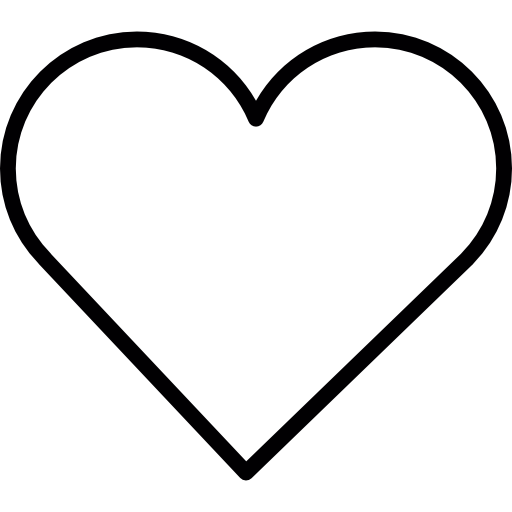
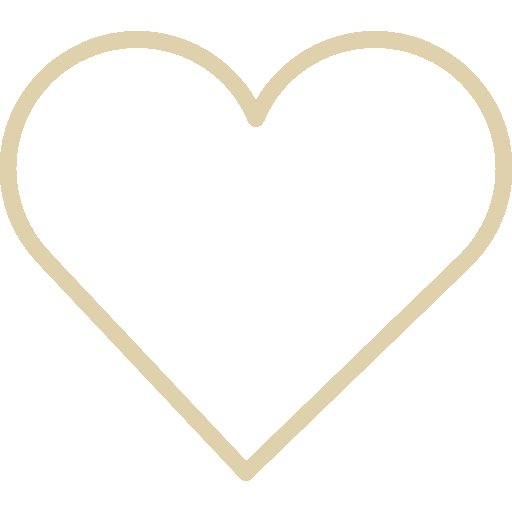
fin_favoris et css "plus joli"

Changed region(s): [[0.0, 0.0625, 1.0, 0.9375]]

diff --git a/js/favoris.js b/js/favoris.js
@@ -1,20 +1,35 @@
-document.addEventListener("DOMContentLoaded", () => {
-    const favorisContainer = document.querySelector(".favoris-container"); 
-    let favorites = JSON.parse(localStorage.getItem("favorites")) || [];
+// Attendre que le DOM soit chargé avant d'exécuter le script
 
+document.addEventListener("DOMContentLoaded", () => {
+    
+    // Sélection des conteneurs dans le DOM
+    const sectionContainer = document.querySelector(".section_container_favoris");
+    const favorisContainer = document.querySelector(".favoris-container"); 
+    
+    // Récupération des favoris stockés dans le localStorage
+    let favorites = JSON.parse(localStorage.getItem("favorites")) || [];
+    
+    // Vérification si des favoris existent, sinon afficher un message
     if (favorites.length === 0) {
         favorisContainer.innerHTML = "<p>Aucun favori pour le moment.</p>";
         return;
     }
 
+    // AFFICHAGE DES FAVORIS 
+    
     favorites.forEach(item => {
         const div = document.createElement("div");
         div.classList.add("favori-item");
+        
+        const div_img_txt = document.createElement("div");
+        div_img_txt.classList.add("div_img_txt");
 
+        // Création de l'image de l'élément
         const img = document.createElement("img");
         img.src = item.image;
         img.alt = item.name;
 
+        // Création du bouton pour supprimer l'élément des favoris
         const aHeart = document.createElement("a"); 
         aHeart.href = "#";
         const img_coeur = document.createElement("img");
@@ -22,13 +37,81 @@ document.addEventListener("DOMContentLoaded", () => {
         img_coeur.src = "images/heart.png";
         aHeart.appendChild(img_coeur);
 
+        // Création du nom de l'élément
         const name = document.createElement("h3");
         name.textContent = item.name;
 
-        div.appendChild(img);
-        div.appendChild(name);
+        div_img_txt.appendChild(img);
+        div_img_txt.appendChild(name);
+        div.appendChild(div_img_txt);
         div.appendChild(aHeart);
         favorisContainer.appendChild(div);
+
+        // AFFICHAGE D'UN ÉLÉMENT AU CLIC
+
+        div_img_txt.addEventListener("click", function() {
+            sectionContainer.innerHTML = "";
+            const element_div = document.createElement("div");
+            element_div.classList.add("element_div");
+
+            const div_a = document.createElement("div");
+            div_a.classList.add("div_a");
+
+            // Bouton favoris dans la page de détail
+            const a_favoris = document.createElement("a");
+            a_favoris.href = "#";
+            const img_favoris = document.createElement("img");
+            img_favoris.src = "images/heart.png";
+            img_favoris.alt = "coeur";
+            a_favoris.appendChild(img_favoris);
+            a_favoris.classList.add("a_favoris");
+
+            a_favoris.addEventListener("click", function (event) {
+                event.preventDefault();
+                enelever_favoris(event);
+            });
+
+            // Bouton retour
+            const a_return = document.createElement("a");
+            a_return.classList.add("a_return");
+            a_return.href = `/${item.category}`;
+            a_return.addEventListener("click", (event) => {
+                event.preventDefault();
+                history.pushState({ category: item.category }, "", `/${item.category}`);
+                loadCategory(categories.find((c) => c.name === item.category));
+            });
+
+            const img_in_a = document.createElement("img");
+            img_in_a.src = "images/4225636.png";
+            img_in_a.alt = "croix";
+            a_return.appendChild(img_in_a);
+
+            div_a.appendChild(a_favoris);
+            div_a.appendChild(a_return);
+
+            // Détails de l'élément
+            const elementImg = document.createElement("img");
+            elementImg.src = item.image;
+            elementImg.alt = item.name;
+            const elementName = document.createElement("h2");
+            elementName.textContent = item.name;
+            const elementDescription = document.createElement("p");
+            elementDescription.textContent = "Description : " + (item.description || "");
+            const elementLocation = document.createElement("p");
+            elementLocation.textContent = "Common(s) location(s) : " + (item.common_locations || "");
+            const elementDrops = document.createElement("p");
+            elementDrops.textContent = "Drops : " + (item.drops || "");
+
+            element_div.appendChild(div_a);
+            element_div.appendChild(elementName);
+            element_div.appendChild(elementImg);
+            element_div.appendChild(elementDescription);
+            element_div.appendChild(elementLocation);
+            element_div.appendChild(elementDrops);
+            sectionContainer.appendChild(element_div);
+        });
+
+        // GESTION DE LA SUPPRESSION D'UN FAVORI
 
         aHeart.addEventListener("click", function(event) {
             event.preventDefault(); 
@@ -38,5 +121,14 @@ document.addEventListener("DOMContentLoaded", () => {
             div.remove(); 
             location.reload();
         });
+
+        // Fonction pour supprimer un favori et recharger la page
+        const enelever_favoris = (event) => {
+            event.preventDefault();
+            favorites = favorites.filter(fav => fav.name !== item.name);
+            localStorage.setItem("favorites", JSON.stringify(favorites));
+            alert("L'élément a été retiré de vos favoris");
+            location.reload();
+        }
     });
 });

diff --git a/main.css b/main.css
@@ -22,13 +22,14 @@ header {
     align-items: center;
     padding: 10px 20px;
     border-bottom: 1px solid #ddd;
+    background-image: url('images/1258416.png');
 }
 
 .logo {
     display: flex;
     align-items: center;
     text-decoration: none;
-    color: black;
+    color:  rgb(224, 209, 173);
 }
 
 .logo img {
@@ -67,10 +68,10 @@ header {
     display: flex;
     align-items: center;
     justify-content: center;
-    border: 1px solid #ddd;
+    border: 0.5px solid grey;
     cursor: pointer;
     text-decoration: none;
-    color: black;
+    color:  rgb(224, 209, 173);
     width: 8em;
     padding: 4px;
     border-radius: 0 3px 3px 0;
@@ -84,6 +85,18 @@ header {
     margin-left: 5px;
 }
 
+.wallpaper_image {
+    position: fixed;
+    top: 0;
+    left: 0;
+    width: 100%;
+    height: 100%; 
+    z-index: -1;
+    background-size: cover;
+    background-position: center; 
+    filter: brightness(35%);
+}
+
 
 main {
     padding: 20px;
@@ -91,6 +104,7 @@ main {
     gap: 130px;
     padding-bottom: 70px;
     justify-content: center;
+    color:  rgb(224, 209, 173);
 }
 
 
@@ -101,11 +115,10 @@ main {
     margin: 0;
     padding: 0;
     gap: 10px;
-    color: black;
 }
 
 .li_categories ul li a{
-    color: black;
+    color:  rgb(224, 209, 173);
 }
 
 
@@ -186,6 +199,7 @@ main {
     display: flex;
     flex-direction: column;
     gap: 50px;
+    color: rgb(224, 209, 173);
 }
 
 .favoris-container{
@@ -198,6 +212,13 @@ main {
     display: flex;
     flex-direction: column;
     align-items: center;
+}
+
+.div_img_txt{
+    display: flex;
+    flex-direction: column;
+    align-items: center;
+    cursor: pointer;
 }
 
 .coeur_favori{

diff --git a/js/main.js b/js/main.js
@@ -46,6 +46,7 @@ document.addEventListener("DOMContentLoaded", async () => {
             return favorites.some(item => item.name === name);
         };
 
+        //On crée tous les éléments pour afficher l'élément plus en détail
         main_section.innerHTML = "";
         const element_div = document.createElement("div");
         element_div.classList.add("element_div");
@@ -84,7 +85,10 @@ document.addEventListener("DOMContentLoaded", async () => {
                 // Sinon on l'ajoute
                 favorites.push({
                     name: item.name,
-                    image: item.image
+                    image: item.image,
+                    description: item.description,
+                    common_locations: item.common_locations,
+                    
                 });
                 imgElement.src = "images/heart.png"; 
                 alert("L'élément a été ajouté à vos favoris");
@@ -99,7 +103,8 @@ document.addEventListener("DOMContentLoaded", async () => {
         });
 
 
-
+       
+        //Suite de la création de tous les éléments pour afficher l'élément plus en détail
         const a_return = document.createElement("a");
         a_return.classList.add("a_return");
         a_return.href = `/${item.category}`;

diff --git a/favoris.html b/favoris.html
@@ -24,6 +24,8 @@
         </a>        
     </header>
 
+    <div class="wallpaper_image"><img src="images/fond_main.png" alt="fond 'décran"></div>
+    
     <section class="section_container_favoris">
         <h1>Mes favoris :</h1>
         <div class="favoris-container"></div>

diff --git a/index.html b/index.html
@@ -28,6 +28,8 @@
         </a>        
     </header>
 
+    <div class="wallpaper_image"><img src="images/fond_main.png" alt="fond 'décran"></div>
+    
     <main class="main_container_categories">
         <section class="li_categories">
             <ul>

diff --git a/README.md b/README.md
@@ -1,4 +1,4 @@
-# zeldium esnt un wiki pour les joueurs de zelda tears of the kingdom
+# zeldium esnt un wiki pour les joueurs de zelda tears of the kingdom, vous allez pouvoir explorer tous les éléments composants le jeu parmis les 5 catégories listées ci dessous. Si vous avez prévu de récupérer un élément en particulier, ajoutez le en favori pour revenir plus tard et savoir où il peut apparaitre sur la map.
 
 ## categorie
     - creatures
@@ -9,7 +9,7 @@
 
 ## utilisation
     
-    1) choisir une catégorie pour voir son contenue
-    2) rechercher un item en particulier avec la barre de recherche
-    3) system de favoris
+    1- choisir une catégorie pour voir son contenu
+    2- rechercher un item en particulier avec la barre de recherche
+    3- systeme de favoris
     
